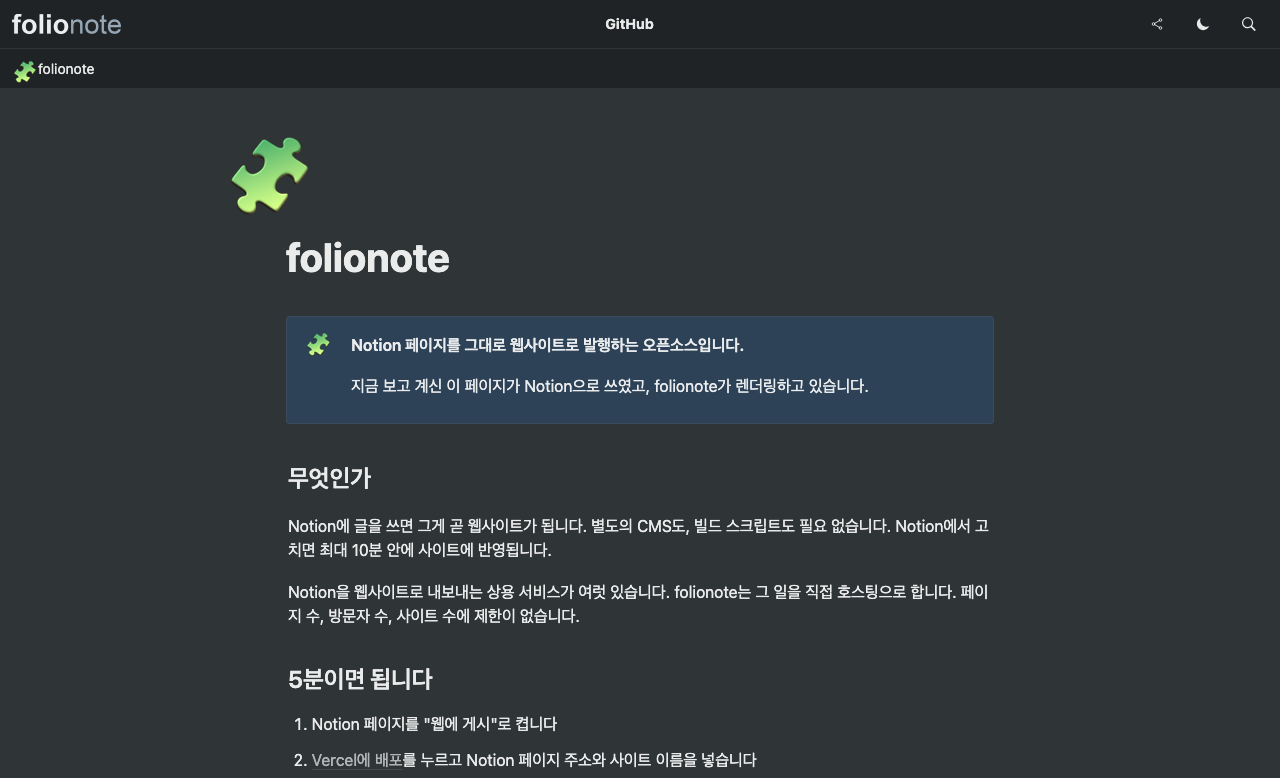
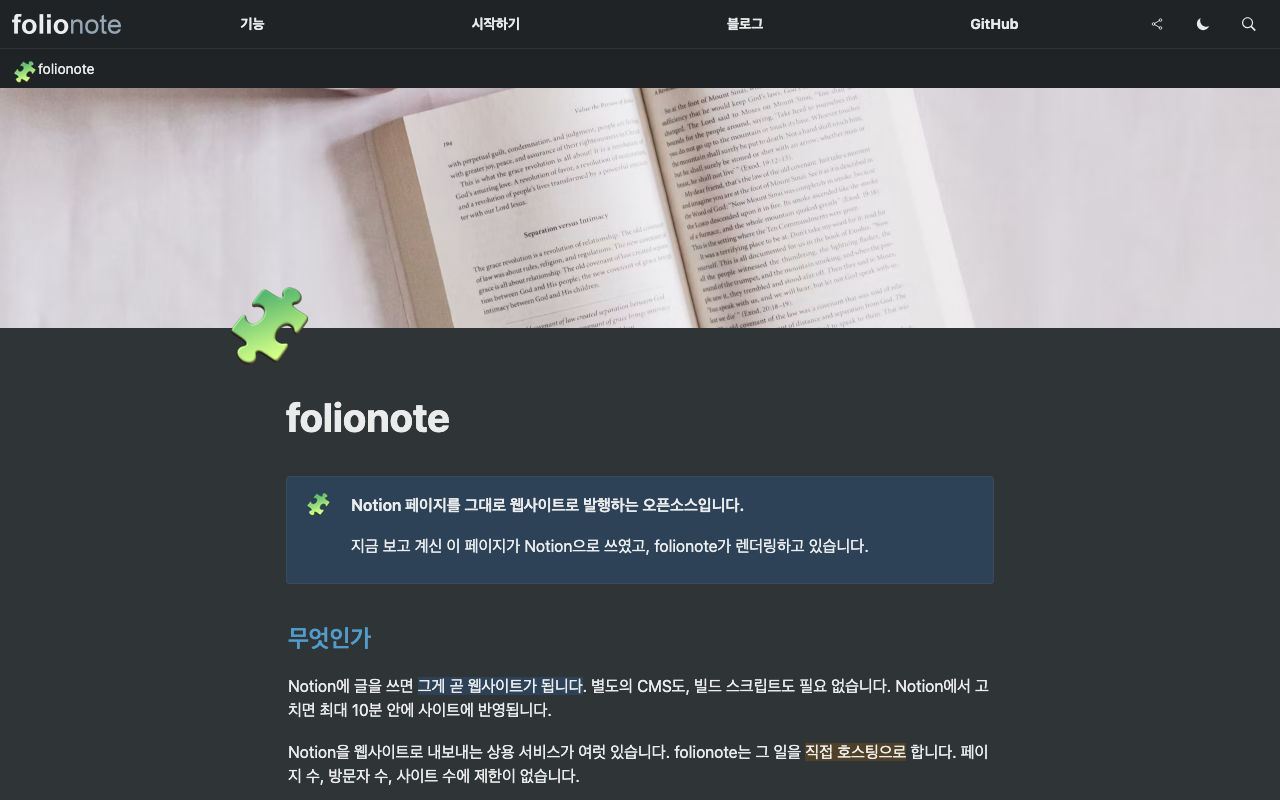
docs(readme): 확장된 데모 페이지 기준으로 스크린샷 교체, 렌더링 예시 추가
데모가 한 페이지에서 5개 페이지 구조로 바뀌면서 첫 화면에 커버 이미지, 네비게이션
바, 색 있는 제목, 형광펜 강조가 들어갔다. 상단 라이트/다크 스크린샷을 그 기준으로
다시 찍었다.

"기능" 표 위에 /examples 다크모드 한 장을 더 넣었다. 콜아웃 4색, 색 제목, 인용,
구분선이 한 화면에 보이는 지점이다. 첫 화면 이미지는 한 장으로 유지해 길어지지
않게 했다.

셋 다 라이브(folionote.leedo.me)에서 1280x800으로 찍었다. 표 폭 수정(f52a17a)이
배포된 뒤 촬영했다.

diff --git a/README.md b/README.md
@@ -145,6 +145,10 @@ github.com/nobel6018/folionote 를 fork해서 클론하고, AGENTS.md의 셋업 
 
 </details>
 
+<img src="docs/images/examples-dark.png" alt="다크모드에서 콜아웃, 인용, 구분선이 렌더된 화면" width="800">
+
+Notion에서 고른 콜아웃 색과 제목 색이 다크모드에서도 그대로 나옵니다. 위 화면은 데모의 [블록 렌더링 예시](https://folionote.leedo.me/examples/) 페이지입니다.
+
 ## 기능
 
 | 기능                 | 내용                                                                                                    |
